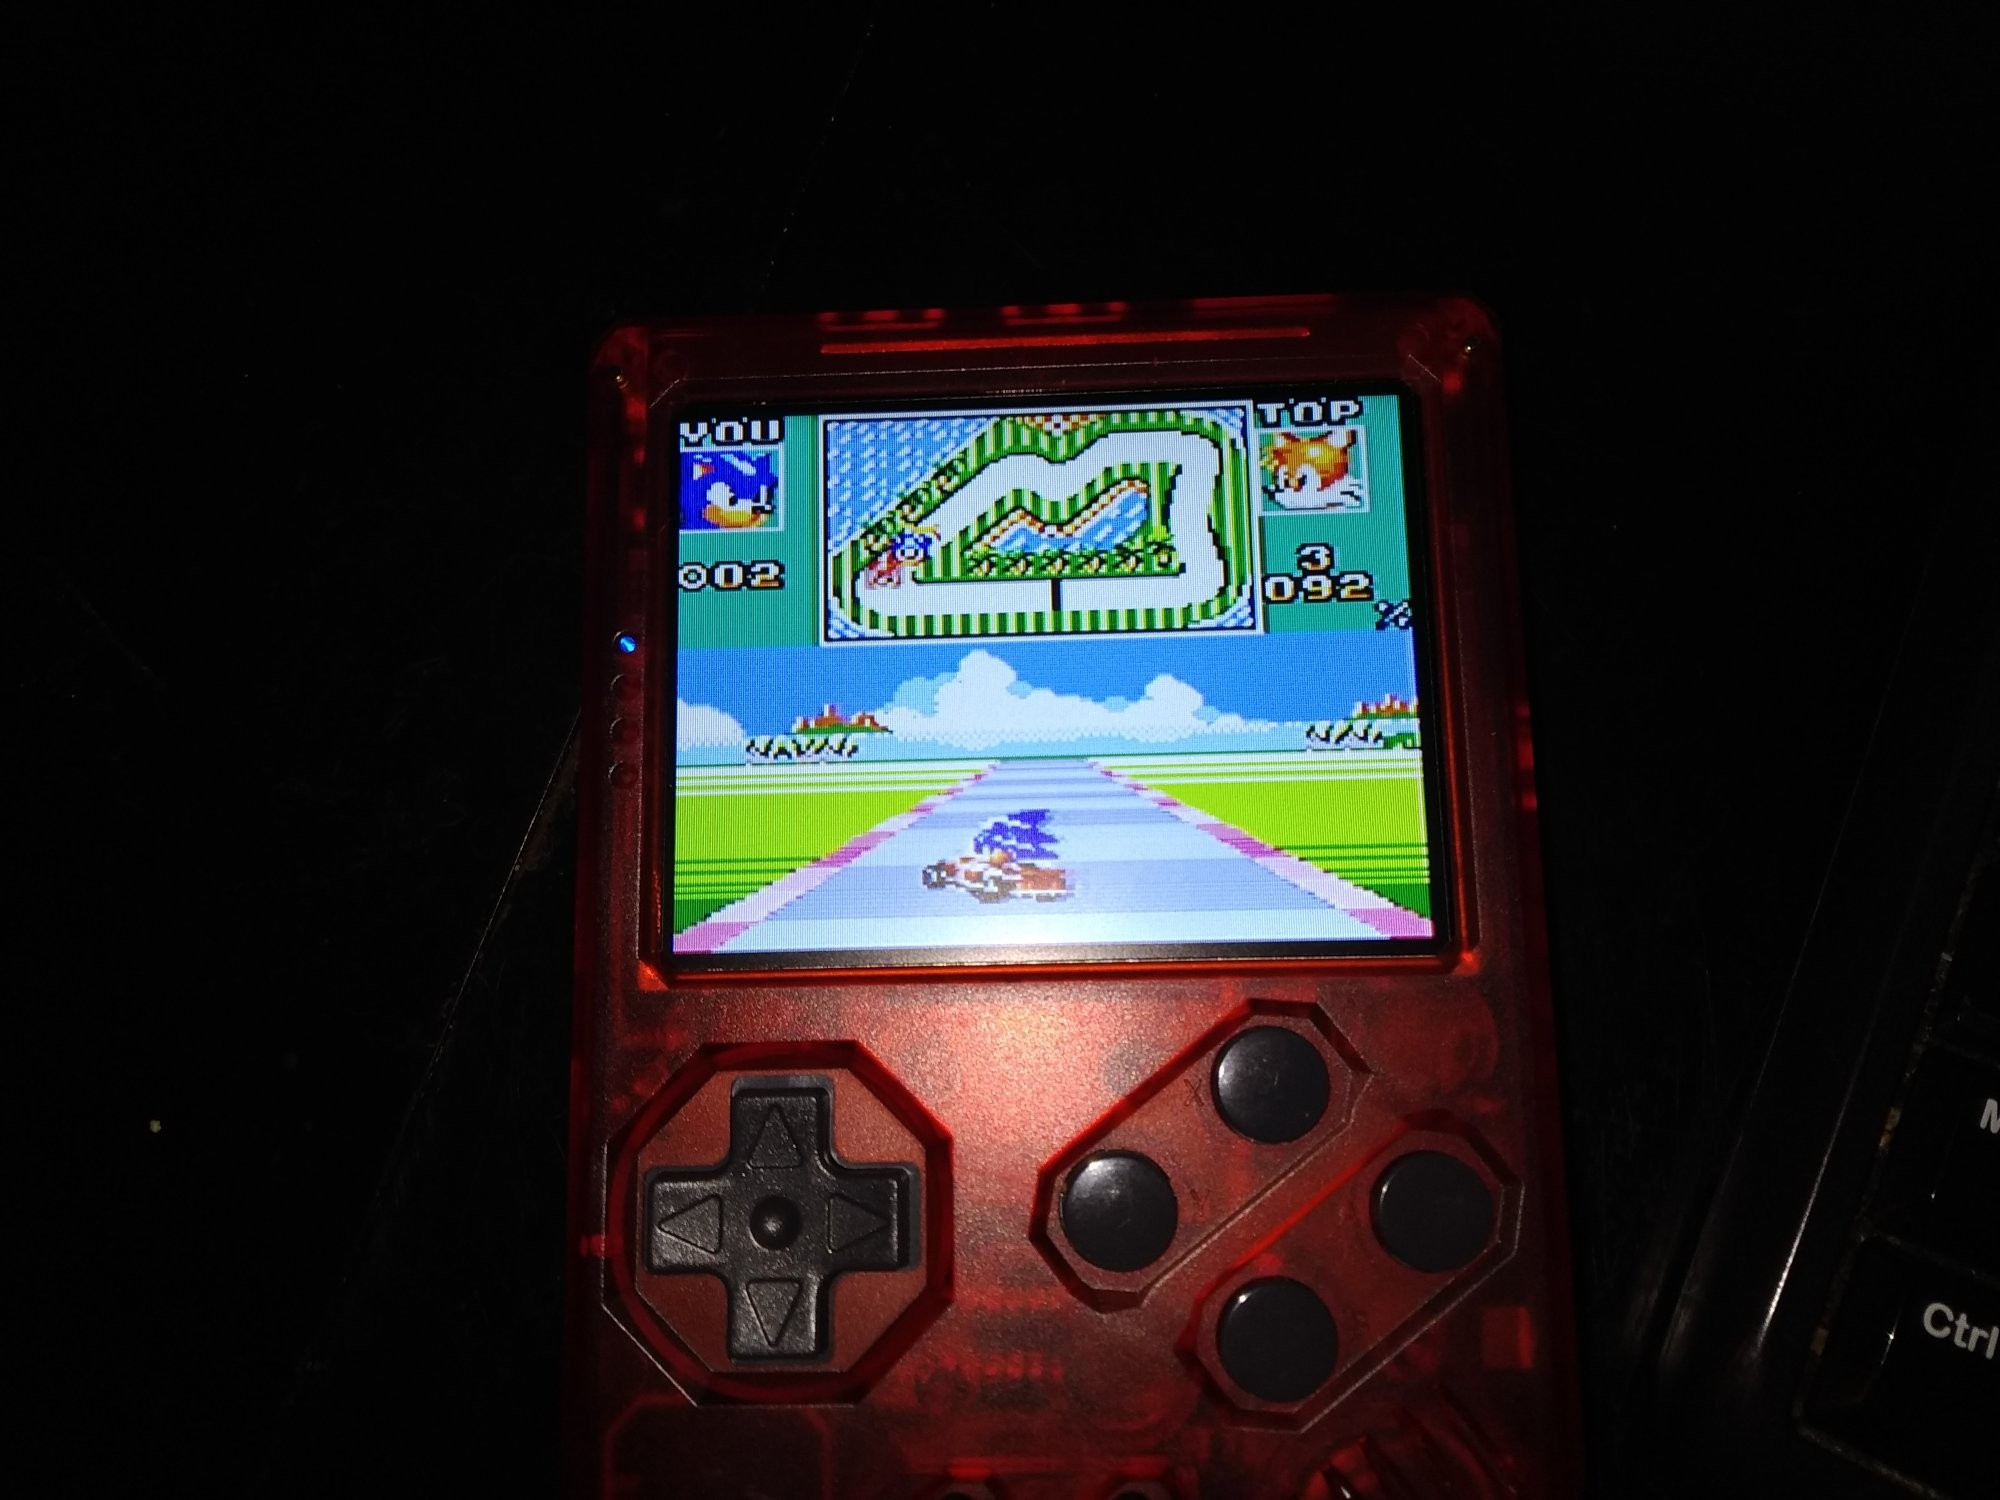
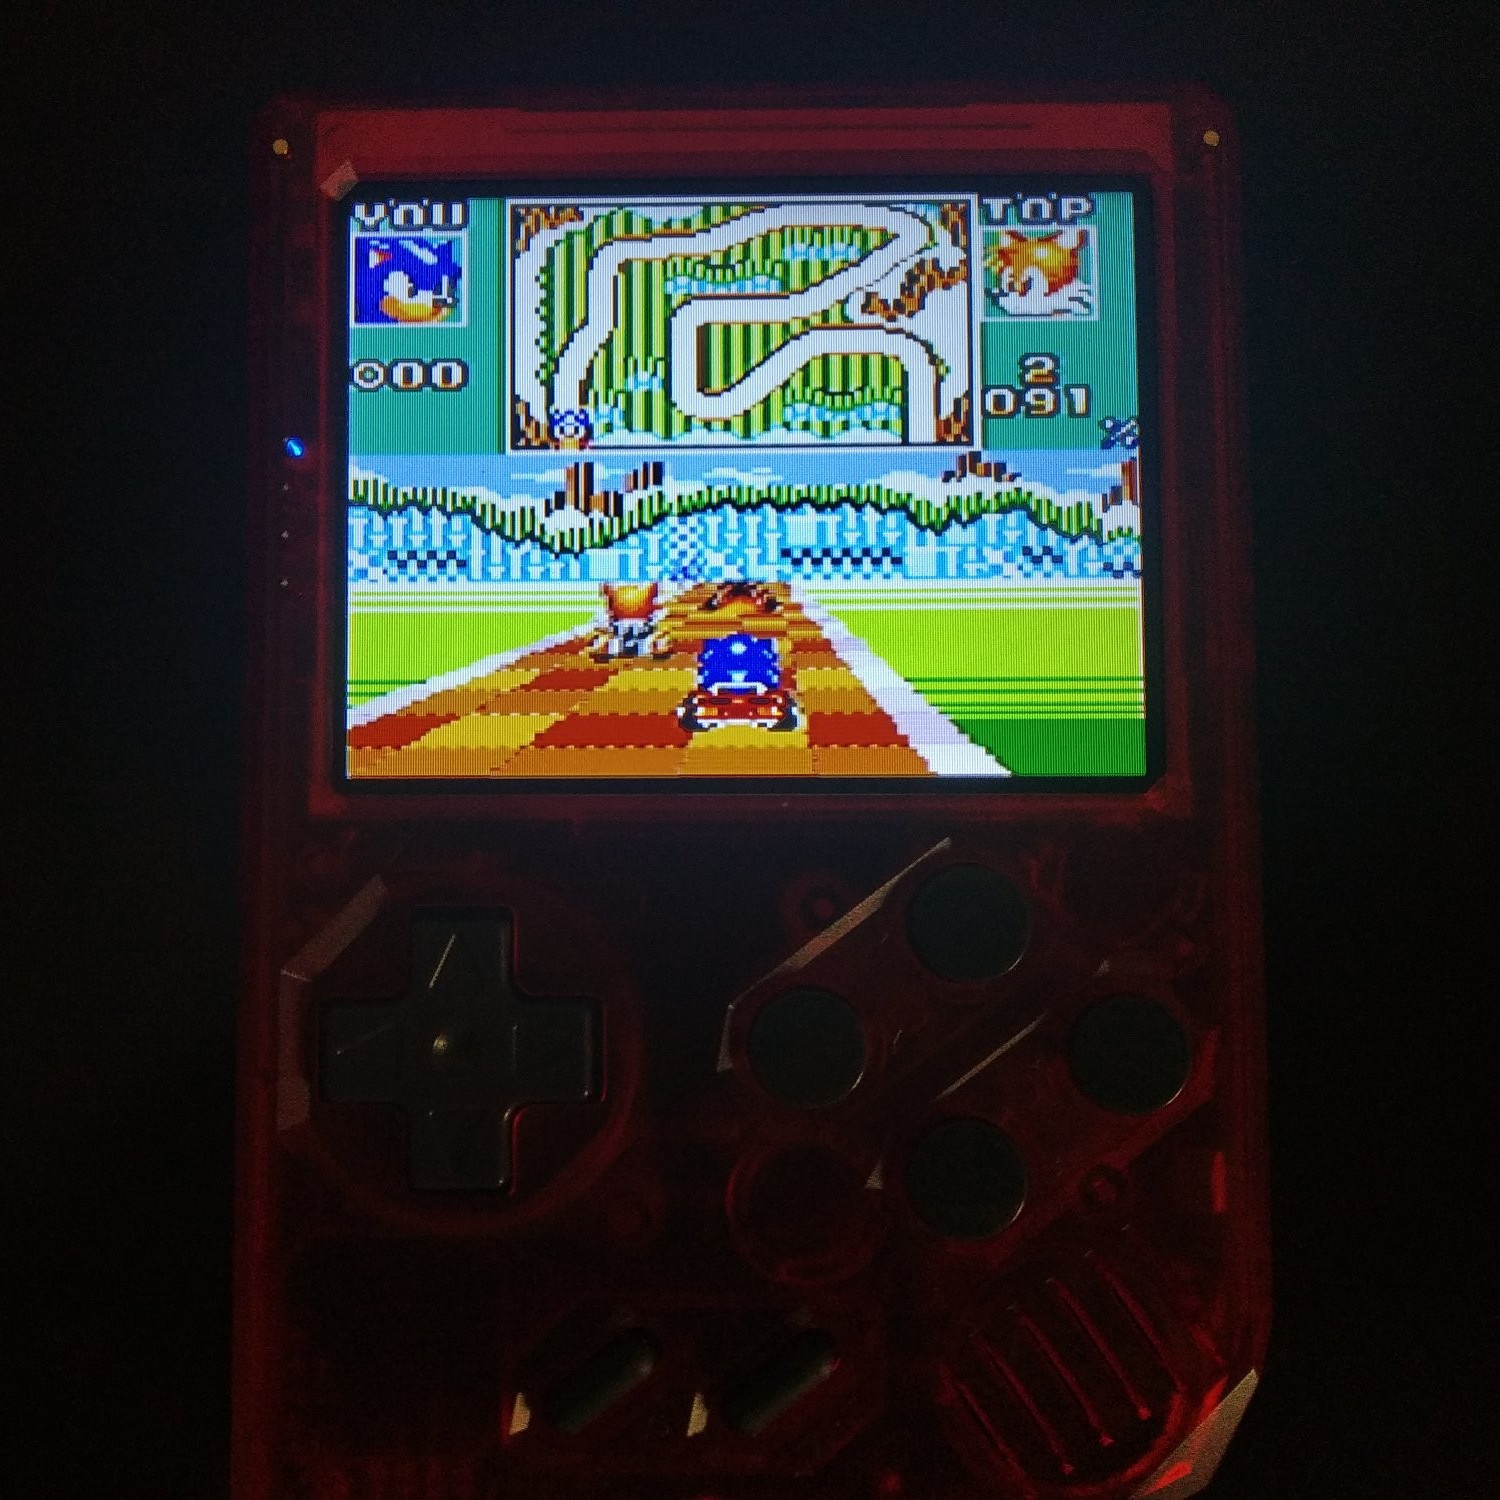
Fixing offsets as these were a little incorrect. (Also updating picture to reflect the changes)

diff --git a/README.md b/README.md
@@ -26,7 +26,7 @@ i can't use glibc).
 <br></br>
 RetrOrangePi sets the resolution to 672x448.
 However, this is not actually the maxed out resolution you can get without black borders.
-The maximum resolution i could get is 680x448. Offsets are x: 33 and y : 18.
+The maximum resolution i could get is 680x448. Offsets are x: 40 and y : 18.
 <br></br>
 There are two displays opened, first one is the one we draw to (where the resolution is actually set)
 and the second one, which seemingly refuses to change its resolution over composite, is for the final output.
